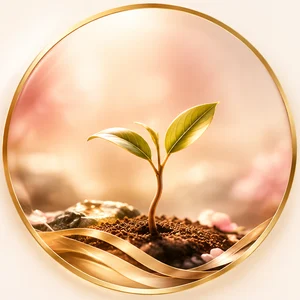
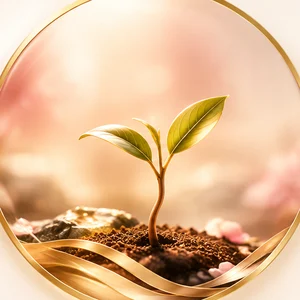
Spa: piedras apilandose + agua en movimiento; arbol mas grande; sin destello cruzando
Claude-Session: https://claude.ai/code/session_01N9LMnzoHcTVnJVvaoy1ZZX

diff --git a/home-polish.css b/home-polish.css
@@ -214,31 +214,29 @@
 .mff.h4{animation:mfH4 9s ease-in-out infinite}@keyframes mfH4{0%,56%{transform:scale(0) rotate(-40deg)}66%{transform:scale(1.2) rotate(8deg)}70%,100%{transform:scale(1) rotate(0)}}
 .mff.h5{animation:mfH5 9s ease-in-out infinite}@keyframes mfH5{0%,60%{transform:scale(0) rotate(-40deg)}70%{transform:scale(1.2) rotate(8deg)}74%,100%{transform:scale(1) rotate(0)}}
 .mff{transform-box:fill-box;transform-origin:center;transform:scale(0);fill:#f08fb0;stroke:#d4608a;stroke-width:.25}.mff.alt{fill:#f7b4cb}.mff .ct{fill:#f2c14e;stroke:none}
-/* piedras reales que cambian de color + agua en movimiento */
-.mst{animation:mstBob 5s ease-in-out infinite;transform-box:view-box;transform-origin:50% 90%}
-@keyframes mstBob{0%,100%{transform:translateY(0)}50%{transform:translateY(-1.2px)}}
-.pa1,.pa2,.pa3{animation:pcA 9s ease-in-out infinite}.pb1,.pb2,.pb3{animation:pcB 9s ease-in-out infinite}.pc1,.pc2,.pc3{animation:pcC 9s ease-in-out infinite}
-.pa2,.pb2,.pc2{animation-delay:-3s}.pa3,.pb3,.pc3{animation-delay:-6s}
-@keyframes pcA{0%,100%{stop-color:#f4ece0}33%{stop-color:#f6dcd6}66%{stop-color:#f3e3c0}}
-@keyframes pcB{0%,100%{stop-color:#b9a78f}33%{stop-color:#d09a96}66%{stop-color:#cdb078}}
-@keyframes pcC{0%,100%{stop-color:#7a6a58}33%{stop-color:#94625f}66%{stop-color:#8d7440}}
-.mw ellipse{transform-box:fill-box;transform-origin:center;opacity:0;animation:mRip 4s ease-out infinite}
-.mw .r2{animation-delay:1s}.mw .r3{animation-delay:2s}.mw .r4{animation-delay:3s}
-@keyframes mRip{0%{transform:scale(.5);opacity:.9}100%{transform:scale(3);opacity:0}}
-.mws{animation:mWave 2.6s linear infinite}
-@keyframes mWave{0%{transform:translateX(-8px);opacity:.3}50%{opacity:.9}100%{transform:translateX(8px);opacity:.3}}
-.mlf{transform-box:fill-box;transform-origin:0 100%;animation:lfSway 4s ease-in-out infinite}
-@keyframes lfSway{0%,100%{transform:rotate(-5deg)}50%{transform:rotate(7deg)}}
-.msp{transform-box:fill-box;transform-origin:center;animation:spTw 2.6s ease-in-out infinite}
-@keyframes spTw{0%,100%{transform:scale(.4) rotate(0);opacity:.4}50%{transform:scale(1) rotate(45deg);opacity:1}}
-@media (prefers-reduced-motion:reduce){.mf-tree,.mfb,.mff,.mst,.mw ellipse,.mws,.mlf,.msp,.pa1,.pa2,.pa3,.pb1,.pb2,.pb3,.pc1,.pc2,.pc3{animation:none!important}.mfb{stroke-dashoffset:0}.mff{transform:scale(1)}.mw ellipse{opacity:.5}}
 
-/* Crece & Florece: medallón con las 3 etapas del árbol (brote → árbol → floración) */
-.px-florece .px-med{left:3.3%;width:13.2%;box-shadow:0 2px 8px rgba(120,80,40,.25);background:#f7e6d6}
-.px-florece .px-med img{position:absolute;inset:0;width:100%;height:100%;display:block;animation:arZoom 9s ease-in-out infinite}
-.px-florece .px-med .a2{opacity:0;animation:arZoom 9s ease-in-out infinite,arF2 9s ease-in-out infinite}
-.px-florece .px-med .a3{opacity:0;animation:arZoom 9s ease-in-out infinite,arF3 9s ease-in-out infinite}
-@keyframes arZoom{0%{transform:scale(1.03)}50%{transform:scale(1.1)}100%{transform:scale(1.03)}}
-@keyframes arF2{0%,22%{opacity:0}40%,92%{opacity:1}100%{opacity:0}}
-@keyframes arF3{0%,52%{opacity:0}70%,88%{opacity:1}98%,100%{opacity:0}}
-@media (prefers-reduced-motion:reduce){.px-florece .px-med img{animation:none!important}.px-florece .px-med .a3{opacity:1}}
+/* sin destello cruzando los botones */
+.px-pill::after{display:none!important}
+/* medallones con fotos: ring dorado CSS, imágenes recortadas dentro */
+.px-med img{position:absolute;inset:0;width:100%;height:100%;display:block}
+.px-florece .px-med img{transform-origin:50% 80%;animation:arZoom 9s ease-in-out infinite}
+@keyframes arZoom{0%{transform:scale(1.05)}55%{transform:scale(1.15)}88%{transform:scale(1.17)}100%{transform:scale(1.05)}}
+.px-florece .px-med img.a2{animation:arZoom 9s ease-in-out infinite,arF2 9s ease-in-out infinite}
+.px-florece .px-med img.a3{animation:arZoom 9s ease-in-out infinite,arF3 9s ease-in-out infinite}
+/* spa: una piedra, otra encima, otra encima; el agua se mueve */
+.px-spa .px-med img{animation:spDrift 6s ease-in-out infinite}
+@keyframes spDrift{0%,100%{transform:scale(1.06) translateX(-1.5%)}50%{transform:scale(1.06) translateX(1.5%)}}
+.px-spa .px-med img.a2{opacity:0;animation:spDrift 6s ease-in-out infinite,spF2 10s ease-in-out infinite}
+.px-spa .px-med img.a3{opacity:0;animation:spDrift 6s ease-in-out infinite,spF3 10s ease-in-out infinite}
+@keyframes spF2{0%,12%{opacity:0}28%,50%{opacity:1}100%{opacity:1}}
+@keyframes spF3{0%,48%{opacity:0}64%,90%{opacity:1}100%{opacity:0}}
+.px-spa .px-med .a2{animation-name:spDrift,spF2b}
+@keyframes spF2b{0%,12%{opacity:0}28%,90%{opacity:1}100%{opacity:0}}
+.wat{position:absolute;inset:0;width:100%;height:100%;pointer-events:none}
+.wat ellipse{transform-box:fill-box;transform-origin:center;opacity:0;animation:mRip 3.2s ease-out infinite}
+.wat .r2{animation-delay:.8s}.wat .r3{animation-delay:1.6s}.wat .r4{animation-delay:2.4s}
+@keyframes mRip{0%{transform:scale(.4);opacity:.85}100%{transform:scale(3.2);opacity:0}}
+.wat .w1{animation:mWave 2.4s linear infinite}.wat .w2{animation:mWave 3.4s linear infinite reverse}
+@keyframes mWave{0%{transform:translateX(-12px);opacity:.15}50%{opacity:.8}100%{transform:translateX(12px);opacity:.15}}
+@media (prefers-reduced-motion:reduce){.px-med img,.wat *{animation:none!important}.px-med .a3{opacity:1}.wat{display:none}}
+@keyframes arF2{0%,22%{opacity:0}40%,92%{opacity:1}100%{opacity:0}}@keyframes arF3{0%,52%{opacity:0}70%,88%{opacity:1}98%,100%{opacity:0}}

diff --git a/premium.js b/premium.js
@@ -41,7 +41,7 @@ const DEFS = {
 };
 const MED = {
   florece: '<img src="btn-arbol1.webp" alt=""><img class="a2" src="btn-arbol2.webp" alt=""><img class="a3" src="btn-arbol3.webp" alt="">',
-  spa: "<svg viewBox=\"0 0 100 100\" aria-hidden=\"true\"><defs><radialGradient id=\"msg\" cx=\"50%\" cy=\"40%\" r=\"70%\"><stop offset=\"0\" stop-color=\"#fffbf1\"/><stop offset=\"1\" stop-color=\"#f3e2c4\"/></radialGradient><linearGradient id=\"mwt\" x1=\"0\" y1=\"0\" x2=\"0\" y2=\"1\"><stop offset=\"0\" stop-color=\"#f6e6c6\"/><stop offset=\"1\" stop-color=\"#e6cf9d\"/></linearGradient><radialGradient id=\"mp1\" cx=\"36%\" cy=\"28%\" r=\"80%\"><stop class=\"pa1\" offset=\"0\"/><stop class=\"pb1\" offset=\".55\"/><stop class=\"pc1\" offset=\"1\"/></radialGradient><radialGradient id=\"mp2\" cx=\"36%\" cy=\"28%\" r=\"80%\"><stop class=\"pa2\" offset=\"0\"/><stop class=\"pb2\" offset=\".55\"/><stop class=\"pc2\" offset=\"1\"/></radialGradient><radialGradient id=\"mp3\" cx=\"36%\" cy=\"28%\" r=\"80%\"><stop class=\"pa3\" offset=\"0\"/><stop class=\"pb3\" offset=\".55\"/><stop class=\"pc3\" offset=\"1\"/></radialGradient></defs><circle cx=\"50\" cy=\"50\" r=\"48\" fill=\"url(#msg)\"/><ellipse cx=\"50\" cy=\"76\" rx=\"44\" ry=\"17\" fill=\"url(#mwt)\" opacity=\".9\"/><g class=\"mw\" fill=\"none\" stroke=\"#b98a3e\" stroke-width=\".9\"><ellipse class=\"r1\" cx=\"50\" cy=\"76\" rx=\"14\" ry=\"3.6\"/><ellipse class=\"r2\" cx=\"50\" cy=\"76\" rx=\"14\" ry=\"3.6\"/><ellipse class=\"r3\" cx=\"50\" cy=\"76\" rx=\"14\" ry=\"3.6\"/><ellipse class=\"r4\" cx=\"50\" cy=\"76\" rx=\"14\" ry=\"3.6\"/></g><path class=\"mws\" d=\"M16 80 Q25 77 34 80 T52 80 T70 80 T86 80\" fill=\"none\" stroke=\"#fff\" stroke-width=\"1.1\" stroke-linecap=\"round\"/><ellipse cx=\"50\" cy=\"73\" rx=\"24\" ry=\"3.6\" fill=\"#7a5a2a\" opacity=\".22\"/><g class=\"mst\"><ellipse cx=\"50\" cy=\"68\" rx=\"24\" ry=\"9.5\" fill=\"url(#mp1)\"/><ellipse cx=\"50\" cy=\"55\" rx=\"17\" ry=\"8\" fill=\"url(#mp2)\"/><ellipse cx=\"50\" cy=\"43\" rx=\"11\" ry=\"6.3\" fill=\"url(#mp3)\"/><ellipse cx=\"42\" cy=\"64.5\" rx=\"7\" ry=\"2\" fill=\"#fff\" opacity=\".35\"/><ellipse cx=\"44\" cy=\"52\" rx=\"5\" ry=\"1.6\" fill=\"#fff\" opacity=\".35\"/><ellipse cx=\"46\" cy=\"40.5\" rx=\"3.4\" ry=\"1.2\" fill=\"#fff\" opacity=\".4\"/><g fill=\"#6b5a48\" opacity=\".35\"><circle cx=\"58\" cy=\"70\" r=\".6\"/><circle cx=\"62\" cy=\"66\" r=\".5\"/><circle cx=\"40\" cy=\"70\" r=\".5\"/><circle cx=\"55\" cy=\"57\" r=\".5\"/><circle cx=\"45\" cy=\"57\" r=\".45\"/><circle cx=\"53\" cy=\"45\" r=\".4\"/></g></g><path class=\"mlf\" d=\"M72 54 C82 48 88 55 85 64 C78 66 70 62 72 54Z\" fill=\"#c9a15b\"/><path class=\"msp\" d=\"M68 22 l2 5 5 2 -5 2 -2 5 -2 -5 -5 -2 5 -2z\" fill=\"#d6b46e\"/></svg>"
+  spa: '<img src="btn-piedra1.webp" alt=""><img class="a2" src="btn-piedra2.webp" alt=""><img class="a3" src="btn-piedra3.webp" alt=""><svg class="wat" viewBox="0 0 100 100" aria-hidden="true"><g fill="none" stroke="#fff" stroke-width=".7"><ellipse class="r1" cx="50" cy="80" rx="14" ry="3"/><ellipse class="r2" cx="50" cy="80" rx="14" ry="3"/><ellipse class="r3" cx="50" cy="80" rx="14" ry="3"/><ellipse class="r4" cx="50" cy="80" rx="14" ry="3"/></g><path class="w1" d="M8 86 Q20 83 32 86 T56 86 T80 86 T104 86" fill="none" stroke="#fff" stroke-width=".9" stroke-linecap="round"/><path class="w2" d="M0 92 Q14 89 28 92 T56 92 T84 92 T112 92" fill="none" stroke="#fff3c9" stroke-width=".8" stroke-linecap="round"/></svg>'
 };
 function pill(mod) {
   const d = DEFS[mod];
